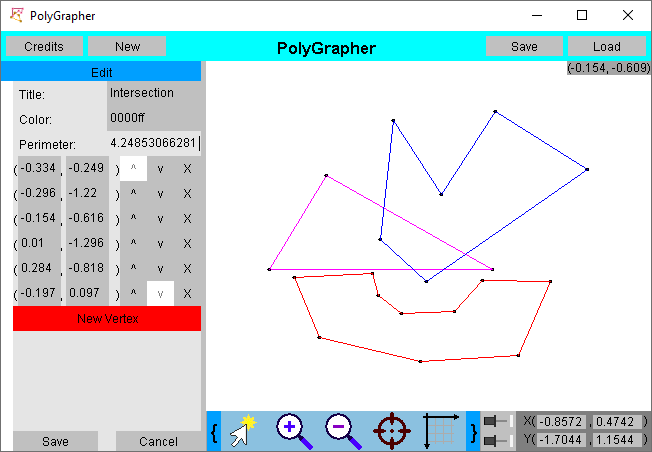
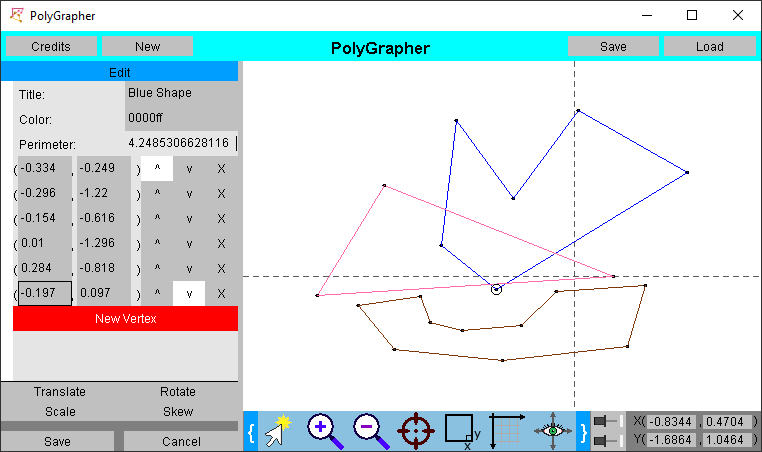
Show/Hide Axes and Square Scale
I added two new buttons: a toggle between hiding and showing the axes and setting a square scale. Furthermore, I made a quick change to transformations to round past the precision digits already set by NumberControl.

diff --git a/src/moulton/poly/main/Menu.java b/src/moulton/poly/main/Menu.java
@@ -78,6 +78,8 @@ public class Menu extends MenuManager implements ComponentListener{
 	private BufferedImage targetUnfocus=null, targetFocus=null;
 	private BufferedImage magIn=null, magOut=null;
 	private BufferedImage clickStar=null, clickMove=null;
+	private BufferedImage unitAxis=null;
+	private BufferedImage showAxes=null, hideAxes=null;
 	
 	private Color niceBlue = new Color(0x9FFF);
 	Color darkishGray = new Color(127, 127, 127);
@@ -133,6 +135,9 @@ public class Menu extends MenuManager implements ComponentListener{
 			magOut = ImageIO.read(getClass().getResource("/mag-out.png"));
 			clickStar = ImageIO.read(getClass().getResource("/click-star.png"));
 			clickMove = ImageIO.read(getClass().getResource("/click-move.png"));
+			unitAxis = ImageIO.read(getClass().getResource("/square.png"));
+			showAxes = ImageIO.read(getClass().getResource("/show-axes.png"));
+			hideAxes = ImageIO.read(getClass().getResource("/hide-axes.png"));
 		} catch (IOException e) {
 			e.printStackTrace();
 		}
@@ -168,8 +173,9 @@ public class Menu extends MenuManager implements ComponentListener{
 		});
 		
 		Color satBlue = new Color(0x8BC1E0);
-		final VirtualPanel buttonDisplay = new VirtualPanel(buttonBar, "15", "0", "?width-190", "height", "200", "height", darkishGray);
-		ImageButton yOrient = new ImageButton("yOrient", yOriDown, buttonDisplay, 4, 0, satBlue);
+		//width of 280 pixels since each button is 40, there are 7 of them = 280 pixels.
+		final VirtualPanel buttonDisplay = new VirtualPanel(buttonBar, "15", "0", "?width-190", "height", "280", "height", darkishGray);
+		ImageButton yOrient = new ImageButton("yOrient", yOriDown, buttonDisplay, 5, 0, satBlue);
 		addTouchComponent(yOrient);
 		yOrient.setClickAction(() -> {
 			if(view.toggleInvertYAxis())
@@ -192,6 +198,17 @@ public class Menu extends MenuManager implements ComponentListener{
 			return true;
 		});
 		addTouchComponent(clickType);
+		
+		addTouchComponent(new ImageButton("unitAxis", unitAxis, buttonDisplay, 4, 0, satBlue));
+		ImageButton axesToggle = new ImageButton("showAxes", showAxes, buttonDisplay, 6, 0, satBlue);
+		axesToggle.setClickAction(() -> {
+			if(view.toggleShowAxes())
+				axesToggle.setImage(showAxes);
+			else
+				axesToggle.setImage(hideAxes);
+			return true;
+		});
+		addTouchComponent(axesToggle);
 		
 		Font bigFont = new Font("Arial", Font.PLAIN, 20);
 		Button bLeft = new Button("buttonLeft", "{", buttonBar, "1", "0", "14", "height", bigFont, niceBlue);
@@ -282,15 +299,30 @@ public class Menu extends MenuManager implements ComponentListener{
 			vertices.addVertex(new double[] {0,0});
 			view.recenter();
 			break;
+		
 		case "centerImg":
 			view.recenter();
 			break;
-		case "zoomOut":
+		case "unitAxis":
 			double[] viewCoords = view.getPerspective();
-			//so we want to show 1.5 the width and the height as before, but centered same
-			//that means that each side needs to grow .25
 			double width = viewCoords[2]-viewCoords[0];
 			double height = viewCoords[3]-viewCoords[1];
+			double diff = height - width;
+			//we will expand the smaller of the two
+			if(diff > 0) { //expand width
+				view.setLowX(viewCoords[0] - diff/2);
+				view.setHighX(viewCoords[2] + diff/2);
+			}else { //expand height
+				view.setLowY(viewCoords[1] + diff/2);
+				view.setHighY(viewCoords[3] - diff/2);
+			}
+			break;
+		case "zoomOut":
+			viewCoords = view.getPerspective();
+			//so we want to show 1.5 the width and the height as before, but centered same
+			//that means that each side needs to grow .25
+			width = viewCoords[2]-viewCoords[0];
+			height = viewCoords[3]-viewCoords[1];
 			view.setLowX(viewCoords[0] - width/4);
 			view.setHighX(viewCoords[2] + width/4);
 			view.setLowY(viewCoords[1] - height/4);
@@ -355,10 +387,6 @@ public class Menu extends MenuManager implements ComponentListener{
 			TextBox deltaY = (TextBox)findComponent("deltaY", base);
 			transformShape(new Translate(Double.parseDouble(deltaX.getMessage()),
 					Double.parseDouble(deltaY.getMessage())));
-System.out.println("TRANSLATE");
-System.out.println(Double.parseDouble(deltaX.getMessage()));
-System.out.println(Double.parseDouble(deltaY.getMessage()));
-System.out.println();
 			break;
 		case "doRotate":
 			base = c.getParent();
@@ -369,11 +397,6 @@ System.out.println();
 					Double.parseDouble(rotateAngle.getMessage()),
 					Double.parseDouble(centerX.getMessage()),
 					Double.parseDouble(centerY.getMessage())));
-System.out.println("ROTATE");
-System.out.println(Double.parseDouble(rotateAngle.getMessage()));
-System.out.println(Double.parseDouble(centerX.getMessage()));
-System.out.println(Double.parseDouble(centerY.getMessage()));
-System.out.println();
 			break;
 		case "doScale":
 			base = c.getParent();
@@ -382,19 +405,11 @@ System.out.println();
 			transformShape(new Scale(
 					Double.parseDouble(scaleX.getMessage()),
 					Double.parseDouble(scaleY.getMessage())));
-System.out.println("SCALE");
-System.out.println(Double.parseDouble(scaleX.getMessage()));
-System.out.println(Double.parseDouble(scaleY.getMessage()));
-System.out.println();
 			break;
 		case "doSkew":
 			base = c.getParent();
 			Button horizSkew = (Button)findComponent("horizSkew", base);
 			TextBox skewAngle = (TextBox)findComponent("skewAngle", base);
-System.out.println("SKEW");
-System.out.println(Double.parseDouble(skewAngle.getMessage()));
-System.out.println(horizSkew.isClicked() ? "Horizontal" : "Vertical");
-System.out.println();
 			transformShape(new Skew(
 					Double.parseDouble(skewAngle.getMessage()),
 					horizSkew.isClicked()));
@@ -423,8 +438,8 @@ System.out.println();
 		//update the shape
 		for(int i=0; i<pts.size(); i++) {
 			Point2D.Double pt = pts.get(i);
-			vertices.getVertex(i)[0] = pt.x;
-			vertices.getVertex(i)[1] = pt.y;
+			vertices.getVertex(i)[0] = NumberControl.round(pt.x, -PolygonView.PRECISION_DIGITS);
+			vertices.getVertex(i)[1] = NumberControl.round(pt.y, -PolygonView.PRECISION_DIGITS);
 		}
 		//reload the shape data
 		returnToShapeList();

diff --git a/src/moulton/poly/main/NumberControl.java b/src/moulton/poly/main/NumberControl.java
@@ -38,7 +38,7 @@ public class NumberControl {
 			number = "-";
 			num *= -1;
 		}
-		if(num == 0)
+		if(num == 0 || num == -0)
 			return "0";
 		if(num == Double.POSITIVE_INFINITY)
 			return (number + "infinity");
@@ -100,9 +100,137 @@ public class NumberControl {
 				int place = number.length() - 2;
 				while(place > 0 && number.charAt(place) == '0')
 					place--;
+				if(number.charAt(place) == '.') {
+					//we rounded all the way back to the decimal
+					place--;
+				}
 				number = number.substring(0, place+1);
+				if(number.equals("-0"))
+					return "0"; //disallow -0
 			}
 		}
 		return number;
+	}
+	
+	/**
+	 * Rounds the double value to the specified decimal place and returns the result. Internally, a String
+	 * is created and altered to find the solution, then this string is parsed. If a string result is
+	 * appropriate, call {@link #roundToString(double, int)} for a faster computation
+	 * @param value the number to be rounded
+	 * @param powerOfTen the place for value to be rounded to, represented as a power of ten. For example,
+	 * rounding value to a whole number would have a powerOfTen of 0, rounding to the nearest 100 would have
+	 * a powerOfTen of 2, rounding to the nearest .0001 would have a powerOfTen of -4.
+	 * @return the result of value being rounded
+	 */
+	public static double round(double value, int powerOfTen){
+		return Double.parseDouble(roundToString(value, powerOfTen));
+	}
+	
+	/**
+	 * Rounds the double value to the specified decimal place and returns the result. If a double result
+	 * is needed, use {@link #round(double, int)}.
+	 * @param value the number to be rounded
+	 * @param powerOfTen the place for value to be rounded to, represented as a power of ten. For example,
+	 * rounding value to a whole number would have a powerOfTen of 0, rounding to the nearest 100 would have
+	 * a powerOfTen of 2, rounding to the nearest .0001 would have a powerOfTen of -4.
+	 * @return the result of value being rounded
+	 */
+	public static String roundToString(double value, int powerOfTen) {
+		boolean negative = value<0;
+		double absVal = value;
+		if(negative)
+			absVal*= -1;
+		if(Math.pow(10, powerOfTen-1)>absVal)
+			return "0";
+		
+		char[] num;
+		int decimal=-1;
+		//if a mathematical integer
+		if(value%1==0){
+			if(powerOfTen<1)
+				return doubleToString(value);
+			num = doubleToString(absVal).toCharArray();
+			decimal = num.length;
+		}else{
+			//will contain a decimal
+			String number = doubleToString(absVal);
+			//subtract one because the decimal won't fit in the new scheme
+			num = new char[number.length()-1];
+			for(int i=0; i<num.length; i++){
+				if(number.charAt(i) == '.')
+					decimal = i;
+				num[i] = number.charAt(i+(decimal==-1?0:1));
+			}
+		}
+		
+		int index = decimal - powerOfTen;
+		if(index<0)
+			return "0";
+		if(index>=num.length)
+			return doubleToString(value);
+		
+		//get the character at the index as a number 0-9.
+		byte round = (byte)(num[index]-'0');
+		if(round>4){
+			//round up
+			do{
+				if(index>0){
+					num[index--] = '0';
+					round = (byte)(++num[index]-'0');
+				}else{
+					//we need to tack a 1 onto the left side of the number
+					String number = "";
+					if(negative)
+						number = "-";
+					number += "1";
+					num[index]='0';
+					int i=0;
+					for(; i<index+1; i++) {
+						if(i==decimal) number+='.';
+						number+=num[i];
+					}if(i>=decimal)
+						return number;
+					//else we need to fill the 0s until the decimal
+					for(; i<decimal; i++)
+						number+='0';
+					return number;
+				}
+			}while(round>9);
+			
+			String number = "";
+			if(negative)
+				number = "-";
+			int i=0;
+			for(; i<index+1; i++){
+				if(i==decimal) number+='.';
+				number+=num[i];
+			}if(i>=decimal || i>0 && num[i-1]=='0')
+				return number;
+			//else we need to fill the 0s until the decimal
+			for(; i<decimal; i++)
+				number+='0';
+			return number;
+			
+		}else{
+			//round down
+			if(index==0)
+				return "0";
+			String number = "";
+			if(negative)
+				number = "-";
+			int i=0;
+			for(; i<index; i++){
+				if(decimal==i)
+					number+=".";
+				if(num[i]=='0' && i>decimal)
+					break;
+				number+=num[i];
+			}if(i>=decimal || i>0 && num[i-1]=='0')
+				return number;
+			//else we need to fill the 0s until the decimal
+			for(; i<decimal; i++)
+				number+='0';
+			return number;
+		}
 	}
 }

diff --git a/src/moulton/poly/shapes/PolygonView.java b/src/moulton/poly/shapes/PolygonView.java
@@ -30,6 +30,7 @@ public class PolygonView extends ImageButton implements DraggableComponent, Scro
 	private boolean fixedYAxis = false;
 	private boolean invertYAxis = false;
 	private boolean createOnClick = true;
+	private boolean showAxes = true;
 	
 	private CoordControl coordControl = null;
 	private ShapeListPanel shapes;
@@ -37,6 +38,7 @@ public class PolygonView extends ImageButton implements DraggableComponent, Scro
 	private static final int ZOOM_OFFS = 100;
 	private static final int ZOOM_INVERSE_SPEED = 200;
 	private ScrollBar zoomBar = new ScrollBar(true, null, 0, 0, Color.WHITE);
+	public static final int PRECISION_DIGITS = 5;
 	
 
 	public PolygonView(Menu menu, ShapeListPanel shapes, Panel parent, String x, String y, String w, String h) {
@@ -158,6 +160,8 @@ public class PolygonView extends ImageButton implements DraggableComponent, Scro
 				yScale = fixedYAxis? this.yScale : coords.height/(hiY-lowY);
 			}
 			
+			drawAxes(g2, coords);
+			
 			//now we can start drawing the shapes
 			for(Shape shape: shapeList) {
 				List<double[]> vertices = shape.getVertices();
@@ -194,7 +198,8 @@ public class PolygonView extends ImageButton implements DraggableComponent, Scro
 				int sy = !invertYAxis? ((int)((selected[1] - lowY)*yScale)): ((int)((hiY - selected[1])*yScale));
 				g2.drawOval(sx-5, sy-5, 10, 10);
 			}
-		}
+		}else
+			drawAxes(g2, coords);
 		recenter = false;
 		
 		super.render(g, xx, yy, ww, hh); //finally render the image
@@ -207,16 +212,40 @@ public class PolygonView extends ImageButton implements DraggableComponent, Scro
 				yScale = coords.height/(hiY-lowY);
 			
 			g.setColor(new Color(100,100,100,150)); //to the translucent gray
-			mx = NumberControl.limitNumber(lowX + mouseX/xScale, 5);
+			mx = NumberControl.limitNumber(lowX + mouseX/xScale, PRECISION_DIGITS);
 			if(!invertYAxis)
-				my = NumberControl.limitNumber(lowY + mouseY/yScale, 5);
+				my = NumberControl.limitNumber(lowY + mouseY/yScale, PRECISION_DIGITS);
 			else
-				my = NumberControl.limitNumber(hiY - mouseY/yScale, 5);
+				my = NumberControl.limitNumber(hiY - mouseY/yScale, PRECISION_DIGITS);
 			String mouseXY = "(" + mx + ", " + my + ")";
 			FontMetrics fm = g.getFontMetrics();
 			g.fillRect(coords.x+coords.width-fm.stringWidth(mouseXY), coords.y, fm.stringWidth(mouseXY), fm.getHeight());
 			g.setColor(Color.BLACK);
 			g.drawString(mouseXY, coords.x+coords.width-fm.stringWidth(mouseXY), coords.y + fm.getHeight()-fm.getDescent());
+		}
+	}
+	
+	private void drawAxes(Graphics g, Rectangle coords) {
+		if(showAxes) {
+			int lineLength = 5;
+			
+			g.setColor(new Color(90, 90, 90));
+			if(lowY <= 0 && hiY >= 0) {
+				int y;
+				if(!invertYAxis)
+					y = (int)((0 - lowY)*yScale);
+				else
+					y = (int)((hiY - 0)*yScale);
+				
+				for(int i=0; i<coords.width; i+=lineLength*2)
+					g.drawLine(i, y, i+lineLength, y);
+			}
+			if(lowX <= 0 && hiX >= 0) {
+				int x = (int)((0 - lowX)*xScale);
+				
+				for(int i=0; i<coords.width; i+=lineLength*2)
+					g.drawLine(x, i, x, i+lineLength);
+			}				
 		}
 	}
 	
@@ -277,6 +306,10 @@ public class PolygonView extends ImageButton implements DraggableComponent, Scro
 	public boolean toggleClickAction() {
 		createOnClick = !createOnClick;
 		return createOnClick;
+	}
+	public boolean toggleShowAxes() {
+		showAxes = !showAxes;
+		return showAxes;
 	}
 	
 	public double[] getPerspective() {

diff --git a/src/moulton/poly/transformations/Rotate.java b/src/moulton/poly/transformations/Rotate.java
@@ -52,7 +52,7 @@ public class Rotate extends Transformation {
 		if(riseOverRun) {
 			double rads = Math.atan(slope);
 			//check for direction
-			if(from.x > to.x)
+			if(from.x < to.x)
 				rads += Math.PI;
 			return rads;
 		}
